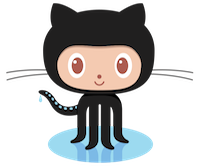
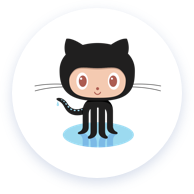
[Marketing site] Switch to assets from Sketch

diff --git a/docs/index.html b/docs/index.html
@@ -55,7 +55,7 @@
                 <div class="contribute-cards">
                     <div class="contribute-card">
                         <div class="logo">
-                            <img src="images/github.png" alt="GitHub logo" id="gitHubLogo">
+                            <img src="images/github.png" alt="GitHub logo">
                         </div>
                         <div class="text">
                             <h4>Get involved</h4>
@@ -67,7 +67,7 @@
 
                     <div class="contribute-card">
                         <div class="logo">
-                            <img src="images/slack.svg" alt="Slack logo" id="slackLogo">
+                            <img src="images/slack.svg" alt="Slack logo">
                         </div>
                         <div class="text">
                             <h4>Join the community!</h4>
@@ -80,7 +80,7 @@
 
                     <div class="contribute-card">
                         <div class="logo">
-                            <img src="images/sketch.png" alt="Sketch logo" id="sketchLogo">
+                            <img src="images/sketch.svg" alt="Sketch logo">
                         </div>
                         <div class="text">
                             <h4>Get our brand assets</h4>
@@ -91,7 +91,7 @@
 
                     <div class="contribute-card">
                         <div class="logo">
-                            <img src="images/medium.svg" alt="Medium logo" id="mediumLogo">
+                            <img src="images/medium.svg" alt="Medium logo">
                         </div>
                         <div class="text">
                             <h4>Visit our blog</h4>

diff --git a/docs/styles.css b/docs/styles.css
@@ -80,28 +80,15 @@ footer {
 }
 
 .logo {
-    border-radius: 50%;
-    box-shadow: 0 2px 6px 0 rgba(47, 83, 151, 0.2);
     flex-shrink: 0;
-    float: left;
     height: 84px;
     margin-right: 20px;
     width: 84px;
 }
 
-#gitHubLogo {
-    height: 44px;
-    margin: 20px 15px 20px 16px;
-}
-
-#sketchLogo {
-    height: 56px;
-    margin: 14px;
-}
-
-#mediumLogo {
-    height: 40px;
-    margin: 22px;
+.logo img {
+    height: 100%;
+    width: 100%;
 }
 
 /*Teamwork cards*/
